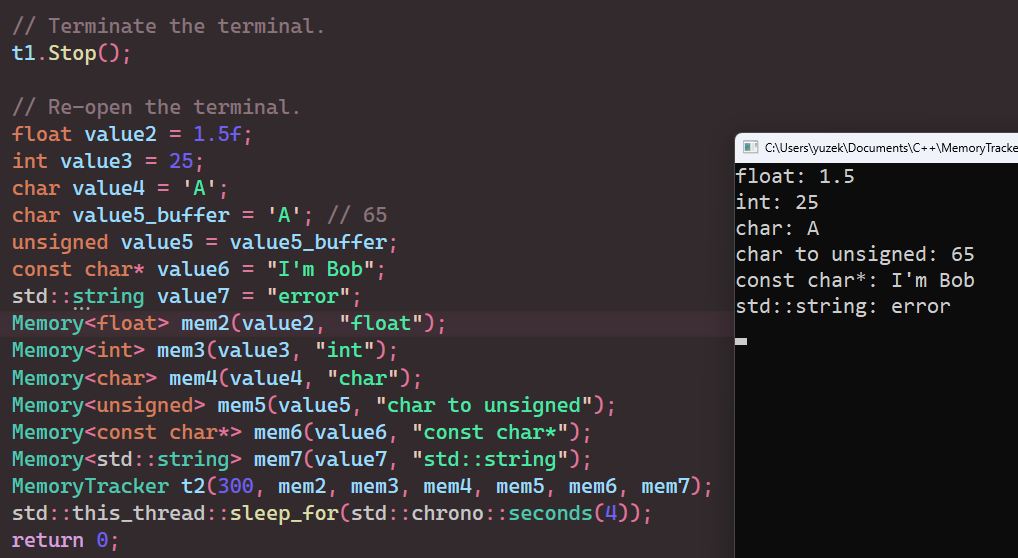
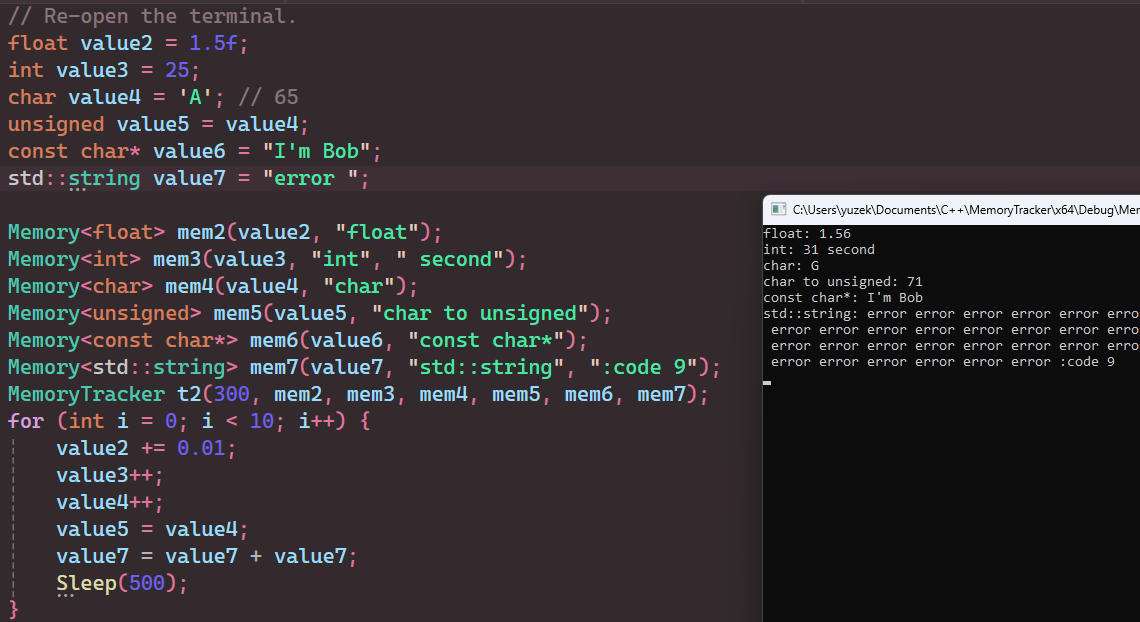
*added more demostration in WinMain_demo.cpp *updated demo image

Changed region(s): [[0.0, 0.0, 1.0, 1.0]]

diff --git a/WinMain_demo.cpp b/WinMain_demo.cpp
@@ -18,19 +18,26 @@ int WINAPI WinMain(_In_ HINSTANCE, _In_opt_ HINSTANCE, _In_ LPSTR, _In_ int) {
 	// Re-open the terminal.
 	float value2 = 1.5f;
 	int value3 = 25;
-	char value4 = 'A';
-	char value5_buffer = 'A'; // 65
-	unsigned value5 = value5_buffer;
+	char value4 = 'A'; // 65
+	unsigned value5 = value4;
 	const char* value6 = "I'm Bob";
-	std::string value7 = "error";
+	std::string value7 = "error ";
+
 	Memory<float> mem2(value2, "float");
-	Memory<int> mem3(value3, "int");
+	Memory<int> mem3(value3, "int", " second");
 	Memory<char> mem4(value4, "char");
 	Memory<unsigned> mem5(value5, "char to unsigned");
 	Memory<const char*> mem6(value6, "const char*");
-	Memory<std::string> mem7(value7, "std::string");
+	Memory<std::string> mem7(value7, "std::string", ":code 9");
 	MemoryTracker t2(300, mem2, mem3, mem4, mem5, mem6, mem7);
-	std::this_thread::sleep_for(std::chrono::seconds(4));
+	for (int i = 0; i < 10; i++) {
+		value2 += 0.01;
+		value3++;
+		value4++;
+		value5 = value4;
+		value7 = value7 + value7;
+		Sleep(500);
+	}
 	return 0;
 }
 
